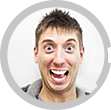
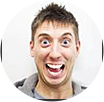
[update] CSS separation contour et image artiste

diff --git a/sass/screen.scss b/sass/screen.scss
@@ -187,25 +187,40 @@ section#content {
                 height: 270px;
                 text-align: center;
                 margin: auto;
+                position:relative;
+                a{
+                    &:before {
+                        content: '';
+                        position: absolute;
+                        top: 25px;
+                        left: 35px;
+                        height: 110px;
+                        width: 110px;
+                        background-image: url(../images/contour.png);
+                        background-size: contain;
+                        background-repeat: no-repeat;
+                    }
+                }
+            }
+            span{
+                display: inline-block;
+                font-size:12px;
+            }
+            .name{
+                display: block;
+                margin-top: 18px;
+
                 span{
                     display: inline-block;
-                    font-size:12px;
-                }
-                .name{
-                    display: block;
-                    margin-top: 18px;
-
-                    span{
-                        display: inline-block;
-                        font-size:14px;
-                        font-weight:bold;
-                        color:#333;
-                        >span{
-                            text-transform: uppercase;
-                        }
+                    font-size:14px;
+                    font-weight:bold;
+                    color:#333;
+                    >span{
+                        text-transform: uppercase;
                     }
                 }
             }
         }
     }
+
 }

diff --git a/css/screen.css b/css/screen.css
@@ -281,25 +281,38 @@ section#content #topartiste .wrapper .artiste {
   height: 270px;
   text-align: center;
   margin: auto;
+  position: relative;
 }
-/* line 190, ../sass/screen.scss */
-section#content #topartiste .wrapper .artiste span {
+/* line 192, ../sass/screen.scss */
+section#content #topartiste .wrapper .artiste a:before {
+  content: '';
+  position: absolute;
+  top: 25px;
+  left: 35px;
+  height: 110px;
+  width: 110px;
+  background-image: url(../images/contour.png);
+  background-size: contain;
+  background-repeat: no-repeat;
+}
+/* line 205, ../sass/screen.scss */
+section#content #topartiste .wrapper span {
   display: inline-block;
   font-size: 12px;
 }
-/* line 194, ../sass/screen.scss */
-section#content #topartiste .wrapper .artiste .name {
+/* line 209, ../sass/screen.scss */
+section#content #topartiste .wrapper .name {
   display: block;
   margin-top: 18px;
 }
-/* line 198, ../sass/screen.scss */
-section#content #topartiste .wrapper .artiste .name span {
+/* line 213, ../sass/screen.scss */
+section#content #topartiste .wrapper .name span {
   display: inline-block;
   font-size: 14px;
   font-weight: bold;
   color: #333;
 }
-/* line 203, ../sass/screen.scss */
-section#content #topartiste .wrapper .artiste .name span > span {
+/* line 218, ../sass/screen.scss */
+section#content #topartiste .wrapper .name span > span {
   text-transform: uppercase;
 }

diff --git a/index.html b/index.html
@@ -41,7 +41,7 @@
         <!--/Slider-->
     </head>
     <body>
-        <header id='head' class="col-md-2">
+        <header id='head' class="col-s-6 col-md-2">
             <div id="sidebar">
                 <div id="logo"><a href="#"><img src="images/logo wezaart blanc.png" alt="logo"/></a></div>
                 <div id="nav">

diff --git a/js/custom.js b/js/custom.js
@@ -63,6 +63,5 @@ jQuery(document).ready(function ($) {
         $('#content').toggleClass("navhide");
         $('#content').toggleClass("col-md-10").toggleClass("col-md-12");
         ScaleSlider();
-
     });
 });
